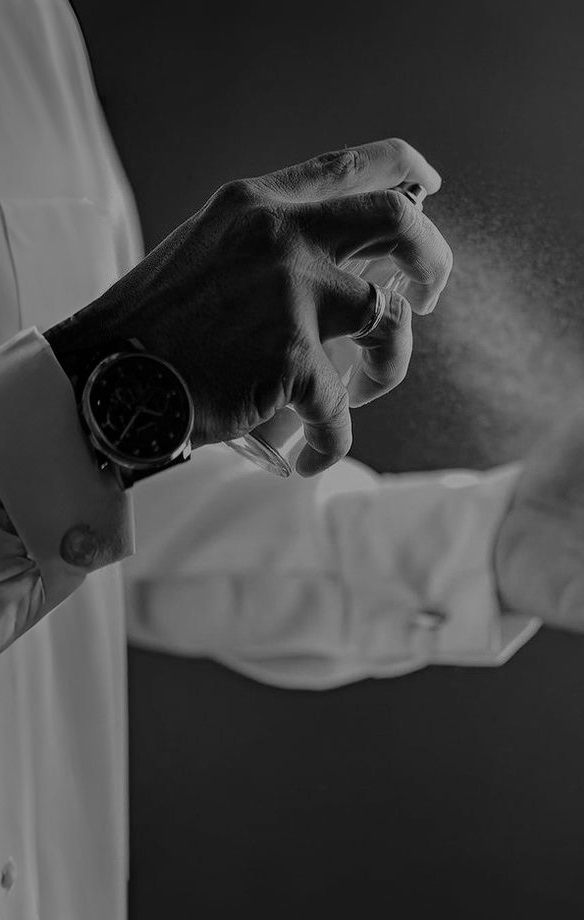
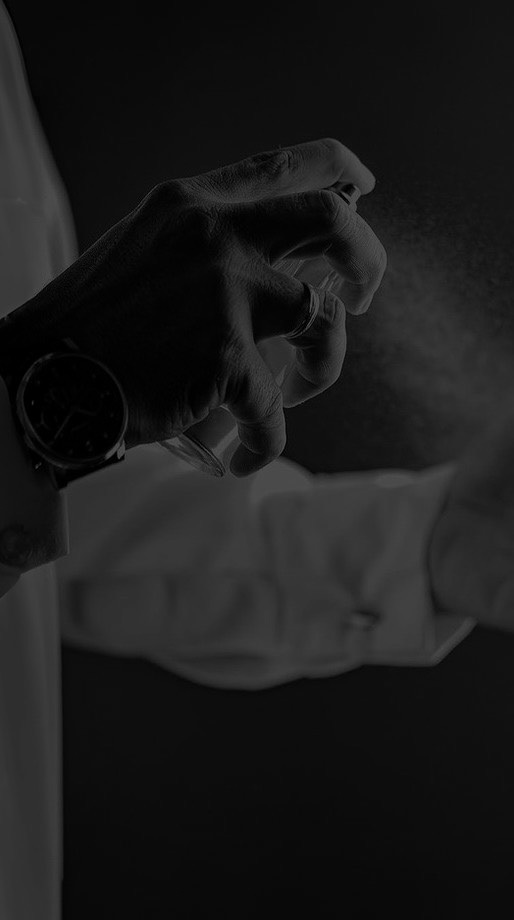
dddddd

diff --git a/src/app/page.tsx b/src/app/page.tsx
@@ -37,11 +37,7 @@ export default function Page() {
             alt="Hero background"
           />
         </picture>
-        <div className="absolute inset-0 bg-gradient-to-br from-[#ffffff78] from-30% to-transparent to-70% blur-3xl" />
-        <div className="absolute inset-0 pointer-events-none bg-black/20">
-          {/* <div className="absolute -top-24 -left-24 h-80 w-80 rounded-full bg-[var(--color-yellow)]/10 blur-3xl" /> */}
-          {/* <div className="absolute -bottom-24 -right-24 h-80 w-80 rounded-full bg-[var(--color-yellow)]/10 blur-3xl" /> */}
-        </div>
+
         <div className="container h-full flex items-center mx-auto px-4 sm:px-6 py-12 sm:py-20 relative">
           <div className="max-w-3xl">
             <p className="text-[var(--color-yellow)]/90 tracking-wide text-xs uppercase">
